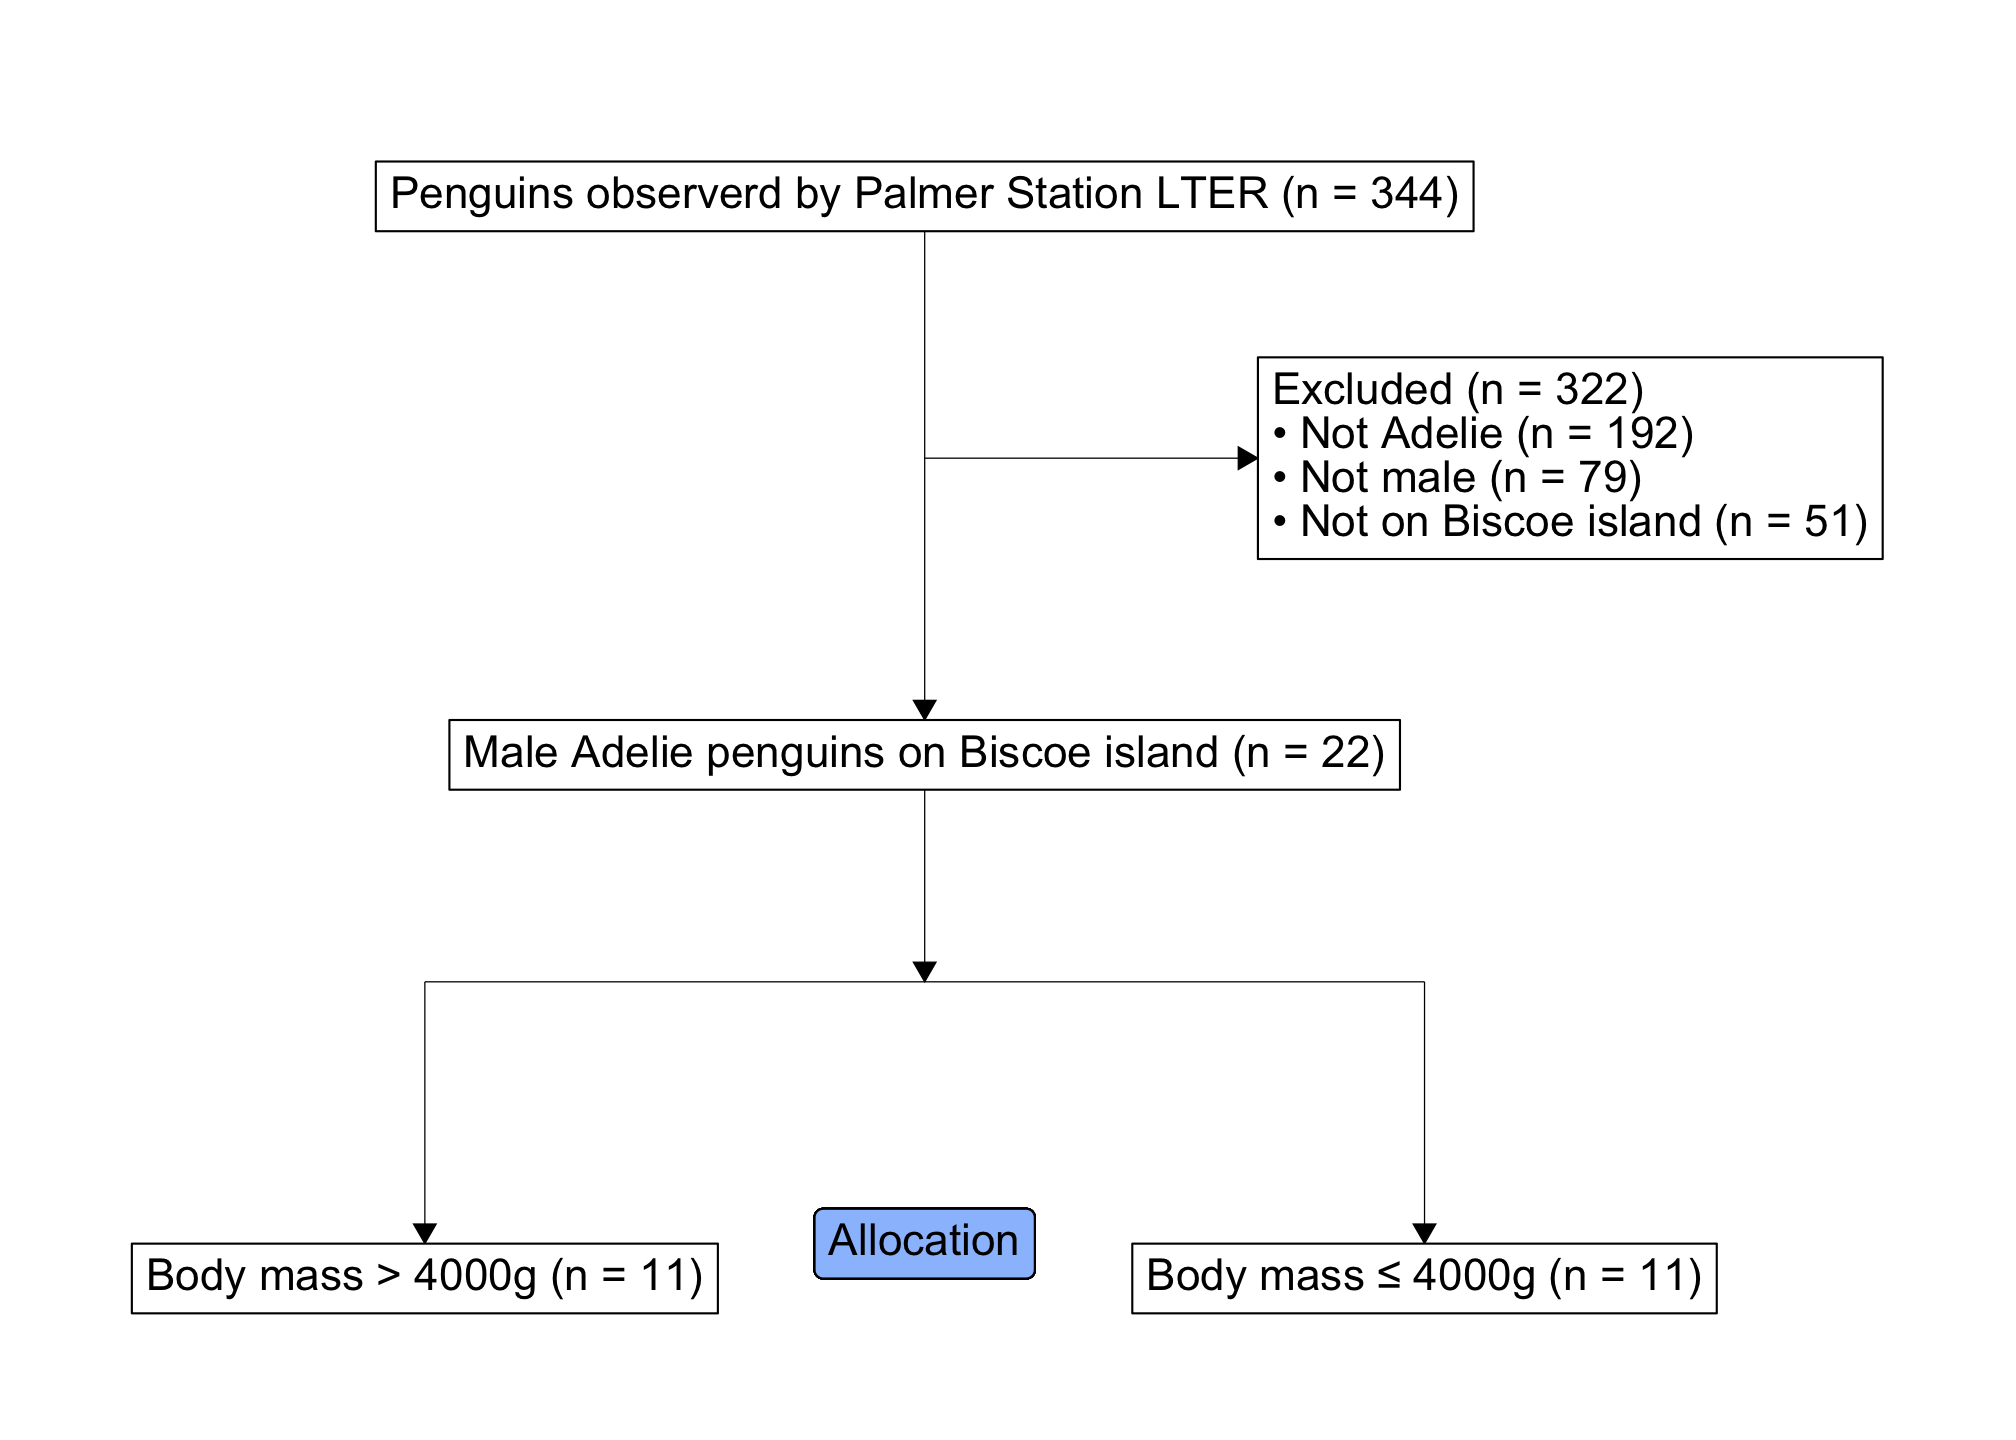
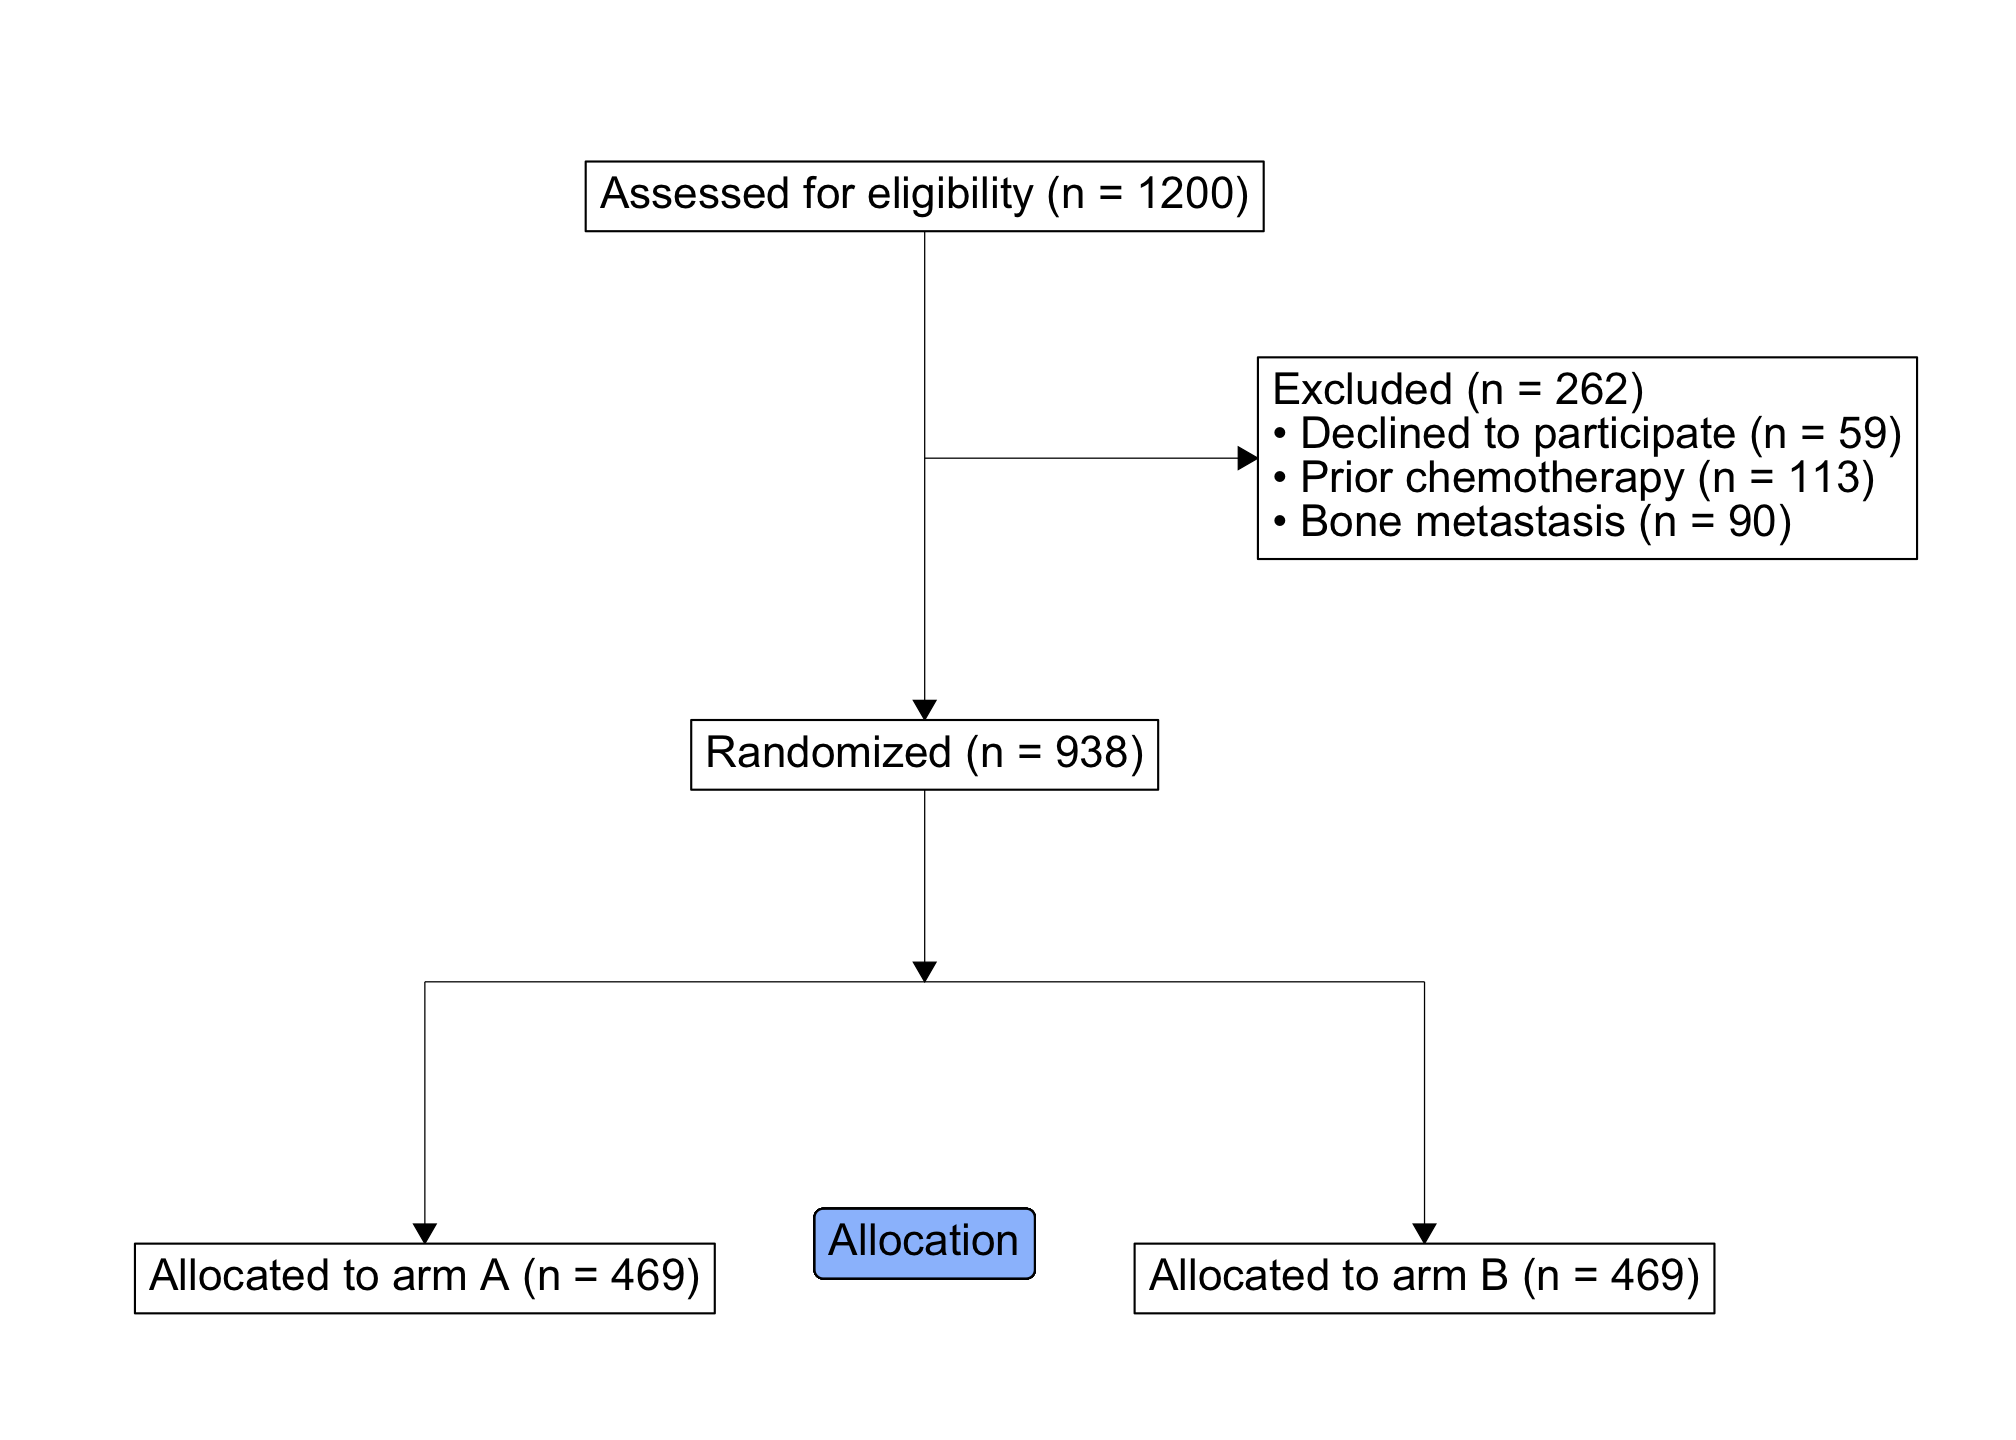
use trial_data in readme

diff --git a/README.md b/README.md
@@ -12,11 +12,11 @@ The goal of ggconsort is to provide convenience functions for creating
 [CONSORT
 diagrams](http://www.consort-statement.org/consort-statement/flow-diagram)
 with ggplot2. ggconsort segments CONSORT creation into two stages: (1)
-CONSORT annotation capture at the time of data wrangling, and (2)
-diagram layout. With the introduction of a `ggconsort_cohort` class,
-stage (1) can be accomplished within dplyr chains. Specifically, the
-following functions are implemented inside a dplyr chain to define a
-`ggconsort_cohort`:
+counting and annotation at the time of data wrangling, and (2) diagram
+layout and aesthetic design. With the introduction of a
+`ggconsort_cohort` class, stage (1) can be accomplished within dplyr
+chains. Specifically, the following functions are implemented inside a
+dplyr chain to define a `ggconsort_cohort`:
 
 -   `cohort_start()` initializes a `ggconsort_cohort` object which
     contains a labeled copy of the source data
@@ -25,14 +25,14 @@ following functions are implemented inside a dplyr chain to define a
 -   `cohort_label()` adds labels to each named cohort within the
     `ggconsort_cohort` object
 
-Diagram layout in stage 2 is streamlined by ggconsort geoms:
+Stage 2 makes use of three ggconsort `consort_` verbs which equip the
+`ggconsort_cohort` object with `ggconsort` properties. The `ggconsort`
+object can be viewed directly with `ggplot()`.
 
--   `geom_consort()` plots a CONSORT diagram from a data frame
-    constructed with `create_consort_data()`
--   Internally, `geom_consort()` is a wrapper for 3 geoms which form the
-    basis for CONSORT plotting; these may be used for finer control:
-    `geom_consort_box()`, `geom_consort_arrow`, and
-    `geom_consort_line()`
+-   `consort_box_add` adds a text box to the CONSORT diagram
+-   `consort_arrow_add` adds an arrow to the CONSORT diagram
+-   `consort_line_add` adds a line (without an arrow head) the CONSORT
+    diagram
 
 ## Installation
 
@@ -46,87 +46,134 @@ devtools::install_github("tgerke/ggconsort")
 
 ## Usage
 
-Suppose that we would like to study male penguins on Biscoe island from
-the `palmerpenguins::penguins` dataset. Specifically, we want to compare
-features in male Biscoe penguins who have body mass &gt; 4000g to those
-with body mass ≤ 4000g. To arrive at our analytic data, we need to
-perform filtering operations, and we would like to represent that
-process in a CONSORT diagram.
+To demonstrate usage, we use a simulated dataset within ggconsort called
+`trial_data`, which contains 1200 patients who were approached to
+participate in a randomized trial comparing Drug A to Drug B.
 
-We first define the `ggconsort_cohort` object (`penguin_cohorts`) in the
+``` r
+library(ggconsort)
+
+head(trial_data)
+#> # A tibble: 6 x 5
+#>      id declined prior_chemo bone_mets treatment
+#>   <int>    <int>       <int>     <int> <chr>    
+#> 1 65464        0           0         0 Drug A   
+#> 2 48228        0           0         0 Drug B   
+#> 3 92586        0           0         0 Drug A   
+#> 4 70176        0           0         0 Drug B   
+#> 5 89052        0           0         0 Drug A   
+#> 6 97333        0           0         0 Drug B
+```
+
+Of the 1200 approached patients, only a subset were ultimately
+randomized: some declined to participate or were ineligible (due to
+prior chemotherapy or bone metastasis). We will use ggconsort verbs and
+geoms to count the patient flow and represent the process in a CONSORT
+diagram.
+
+We first define the `ggconsort_cohort` object (`study_cohorts`) in the
 following dplyr chain.
 
 ``` r
 library(dplyr)
-library(ggplot2)
-library(ggconsort)
-library(palmerpenguins)
 
-penguin_cohorts <- 
-  penguins %>%
-  mutate(.id = row_number()) %>% # a unique ID for joins
-  cohort_start("Penguins observerd by Palmer Station LTER") %>%
+study_cohorts <- 
+  trial_data %>%
+  cohort_start("Assessed for eligibility") %>%
   # Define cohorts using named expressions --------------------
   # Notice that you can use previously defined cohorts in subsequent steps
   cohort_define(
-    adelie = .full %>% filter(species == "Adelie"),
-    adelie_male = adelie %>% filter(sex == "male"),
-    biscoe_adelie_male = adelie_male %>% filter(island == "Biscoe"),
-    high_bm = biscoe_adelie_male %>% filter(body_mass_g > 4000),
-    low_bm = biscoe_adelie_male %>% filter(body_mass_g <= 4000),
-    # anti_join is useful for counting exclusions
-    excluded = anti_join(.full, biscoe_adelie_male, by = ".id"),
-    excluded_not_adelie = anti_join(.full, adelie, by = ".id"),
-    excluded_not_adelie_male = anti_join(adelie, adelie_male, by = ".id"),
-    excluded_not_adelie_male_biscoe = anti_join(
-      adelie_male, biscoe_adelie_male, by = ".id"
-    )
+    consented = .full %>% filter(declined != 1),
+    consented_chemonaive = consented %>% filter(prior_chemo != 1),
+    randomized = consented_chemonaive %>% filter(bone_mets != 1),
+    treatment_a = randomized %>% filter(treatment == "Drug A"),
+    treatment_b = randomized %>% filter(treatment == "Drug B"),
+    # anti_join is useful for counting exclusions -------------
+    excluded = anti_join(.full, randomized, by = "id"),
+    excluded_declined = anti_join(.full, consented, by = "id"),
+    excluded_chemo = anti_join(consented, consented_chemonaive, by = "id"),
+    excluded_mets = anti_join(consented_chemonaive, randomized, by = "id")
   ) %>%
   # Provide text labels for cohorts ---------------------------
   cohort_label(
-    adelie = "Adelie penguins",
-    adelie_male = "Adelie male penguins",
-    biscoe_adelie_male = "Male Adelie penguins on Biscoe island",
-    high_bm = "Body mass > 4000g",
-    low_bm = "Body mass ≤ 4000g",
+    consented = "Consented",
+    consented_chemonaive = "Chemotherapy naive",
+    randomized = "Randomized",
+    treatment_a = "Allocated to arm A",
+    treatment_b = "Allocated to arm B",
     excluded = "Excluded",
-    excluded_not_adelie = "Not Adelie",
-    excluded_not_adelie_male = "Not male",
-    excluded_not_adelie_male_biscoe = "Not on Biscoe island"
+    excluded_declined = "Declined to participate",
+    excluded_chemo = "Prior chemotherapy",
+    excluded_mets = "Bone metastasis"
   )
 ```
 
-Next, we define data frames for the CONSORT “boxes” and “arrows”,
-combine these data frames with `create_consort_data`, and plot with
-`geom_consort`.
+We can have a look at the `study_cohorts` object with its print and
+summary methods:
 
 ``` r
-penguin_cohorts <- penguin_cohorts %>%
+study_cohorts
+#> A ggconsort cohort of 1200 observations with 9 cohorts:
+#>   - consented (1141)
+#>   - consented_chemonaive (1028)
+#>   - randomized (938)
+#>   - treatment_a (469)
+#>   - treatment_b (469)
+#>   - excluded (262)
+#>   - excluded_declined (59)
+#>   - excluded_chemo (113)
+#>   ...and 1 more.
+
+summary(study_cohorts)
+#> # A tibble: 10 x 3
+#>    cohort               count label                   
+#>    <chr>                <int> <chr>                   
+#>  1 .full                 1200 Assessed for eligibility
+#>  2 consented             1141 Consented               
+#>  3 consented_chemonaive  1028 Chemotherapy naive      
+#>  4 randomized             938 Randomized              
+#>  5 treatment_a            469 Allocated to arm A      
+#>  6 treatment_b            469 Allocated to arm B      
+#>  7 excluded               262 Excluded                
+#>  8 excluded_declined       59 Declined to participate 
+#>  9 excluded_chemo         113 Prior chemotherapy      
+#> 10 excluded_mets           90 Bone metastasis
+```
+
+Next, we add CONSORT “boxes” and “arrows” with appropriate ggconsort
+verbs, and plot with the CONSORT diagram `ggplot`. Note the use of
+`cohort_count_adorn()`, which is a convenience function that glues
+cohort counts to their labels.
+
+``` r
+library(ggplot2)
+
+study_cohorts <- study_cohorts %>%
   consort_box_add(
-    "full", 0, 50, cohort_count_adorn(penguin_cohorts, .full)
+    "full", 0, 50, cohort_count_adorn(study_cohorts, .full)
   ) %>%
   consort_box_add(
     "exclusions", 20, 40, glue::glue(
-      '{cohort_count_adorn(penguin_cohorts, excluded)}<br>
-      • {cohort_count_adorn(penguin_cohorts, excluded_not_adelie)}<br>
-      • {cohort_count_adorn(penguin_cohorts, excluded_not_adelie_male)}<br>
-      • {cohort_count_adorn(penguin_cohorts, excluded_not_adelie_male_biscoe)}
+      '{cohort_count_adorn(study_cohorts, excluded)}<br>
+      • {cohort_count_adorn(study_cohorts, excluded_declined)}<br>
+      • {cohort_count_adorn(study_cohorts, excluded_chemo)}<br>
+      • {cohort_count_adorn(study_cohorts, excluded_mets)}
       ')
   ) %>%
   consort_box_add(
-    "final", 0, 30, cohort_count_adorn(penguin_cohorts, biscoe_adelie_male)
+    "randomized", 0, 30, cohort_count_adorn(study_cohorts, randomized)
   ) %>%
   consort_box_add(
-    "high_bm", -30, 10, cohort_count_adorn(penguin_cohorts, high_bm)
+    "arm_a", -30, 10, cohort_count_adorn(study_cohorts, treatment_a)
   ) %>%
   consort_box_add(
-    "low_bm", 30, 10, cohort_count_adorn(penguin_cohorts, low_bm)
+    "arm_b", 30, 10, cohort_count_adorn(study_cohorts, treatment_b)
   ) %>%
   consort_arrow_add(
     end = "exclusions", end_side = "left", start_x = 0, start_y = 40
   ) %>%
   consort_arrow_add(
-    "full", "bottom", "final", "top"
+    "full", "bottom", "randomized", "top"
   ) %>% 
   consort_arrow_add(
     start_x = 0, start_y = 30, end_x = 0, end_y = 20,
@@ -135,15 +182,15 @@ penguin_cohorts <- penguin_cohorts %>%
     start_x = -30, start_y = 20, end_x = 30, end_y = 20,
   ) %>% 
   consort_arrow_add(
-    end = "high_bm", end_side = "top", start_x = -30, start_y = 20
+    end = "arm_a", end_side = "top", start_x = -30, start_y = 20
   ) %>%
   consort_arrow_add(
-    end = "low_bm", end_side = "top", start_x = 30, start_y = 20
+    end = "arm_b", end_side = "top", start_x = 30, start_y = 20
   )
 
-penguin_cohorts %>%
+study_cohorts %>%
   ggplot() + 
-  # you can include other ggplot geoms, as needed
+  # you can include other ggplot geoms, as needed -------------
   ggtext::geom_richtext(
     aes(x = 0, y = 10, label = "Allocation"),
     fill = "#9bc0fc"
@@ -155,23 +202,23 @@ penguin_cohorts %>%
 <img src="man/figures/README-example-consort-1.png" width="100%" />
 
 At this point, we are ready for analysis. The following retrieves the
-desired data frame:
+desired data frame of randomized subjects:
 
 ``` r
-penguin_cohorts %>%
-  cohort_pull(biscoe_adelie_male)
-#> # A tibble: 22 x 9
-#>    species island bill_length_mm bill_depth_mm flipper_length_mm body_mass_g
-#>    <fct>   <fct>           <dbl>         <dbl>             <int>       <int>
-#>  1 Adelie  Biscoe           37.7          18.7               180        3600
-#>  2 Adelie  Biscoe           38.2          18.1               185        3950
-#>  3 Adelie  Biscoe           38.8          17.2               180        3800
-#>  4 Adelie  Biscoe           40.6          18.6               183        3550
-#>  5 Adelie  Biscoe           40.5          18.9               180        3950
-#>  6 Adelie  Biscoe           40.1          18.9               188        4300
-#>  7 Adelie  Biscoe           42            19.5               200        4050
-#>  8 Adelie  Biscoe           41.4          18.6               191        3700
-#>  9 Adelie  Biscoe           40.6          18.8               193        3800
-#> 10 Adelie  Biscoe           37.6          19.1               194        3750
-#> # … with 12 more rows, and 3 more variables: sex <fct>, year <int>, .id <int>
+study_cohorts %>%
+  cohort_pull(randomized)
+#> # A tibble: 938 x 5
+#>       id declined prior_chemo bone_mets treatment
+#>    <int>    <int>       <int>     <int> <chr>    
+#>  1 65464        0           0         0 Drug A   
+#>  2 48228        0           0         0 Drug B   
+#>  3 92586        0           0         0 Drug A   
+#>  4 70176        0           0         0 Drug B   
+#>  5 89052        0           0         0 Drug A   
+#>  6 97333        0           0         0 Drug B   
+#>  7 80724        0           0         0 Drug A   
+#>  8 65186        0           0         0 Drug B   
+#>  9 48837        0           0         0 Drug A   
+#> 10 99005        0           0         0 Drug B   
+#> # … with 928 more rows
 ```
